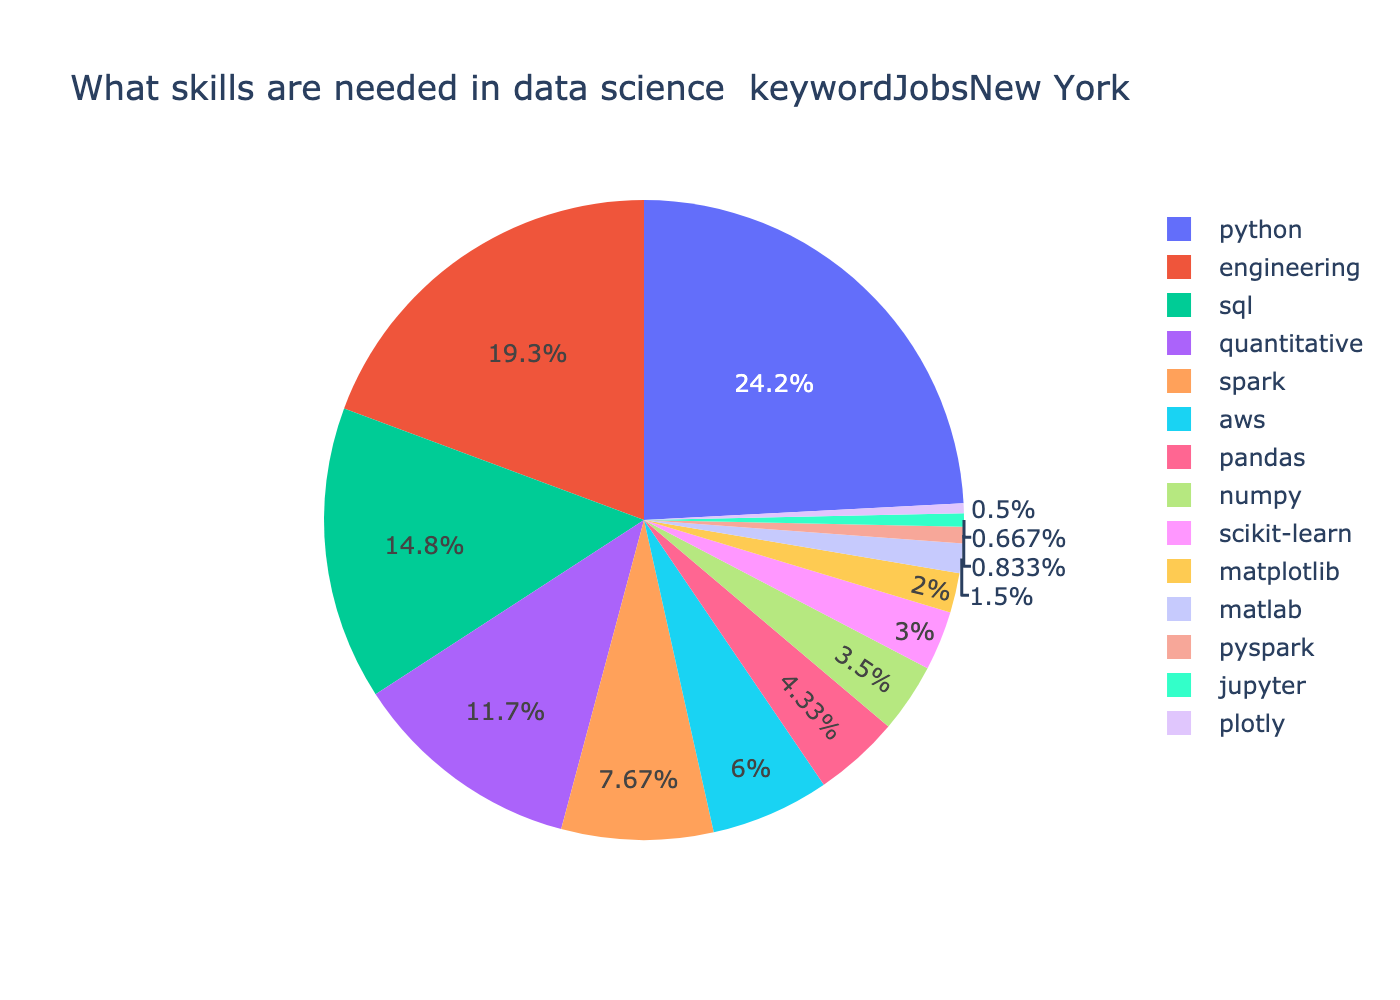
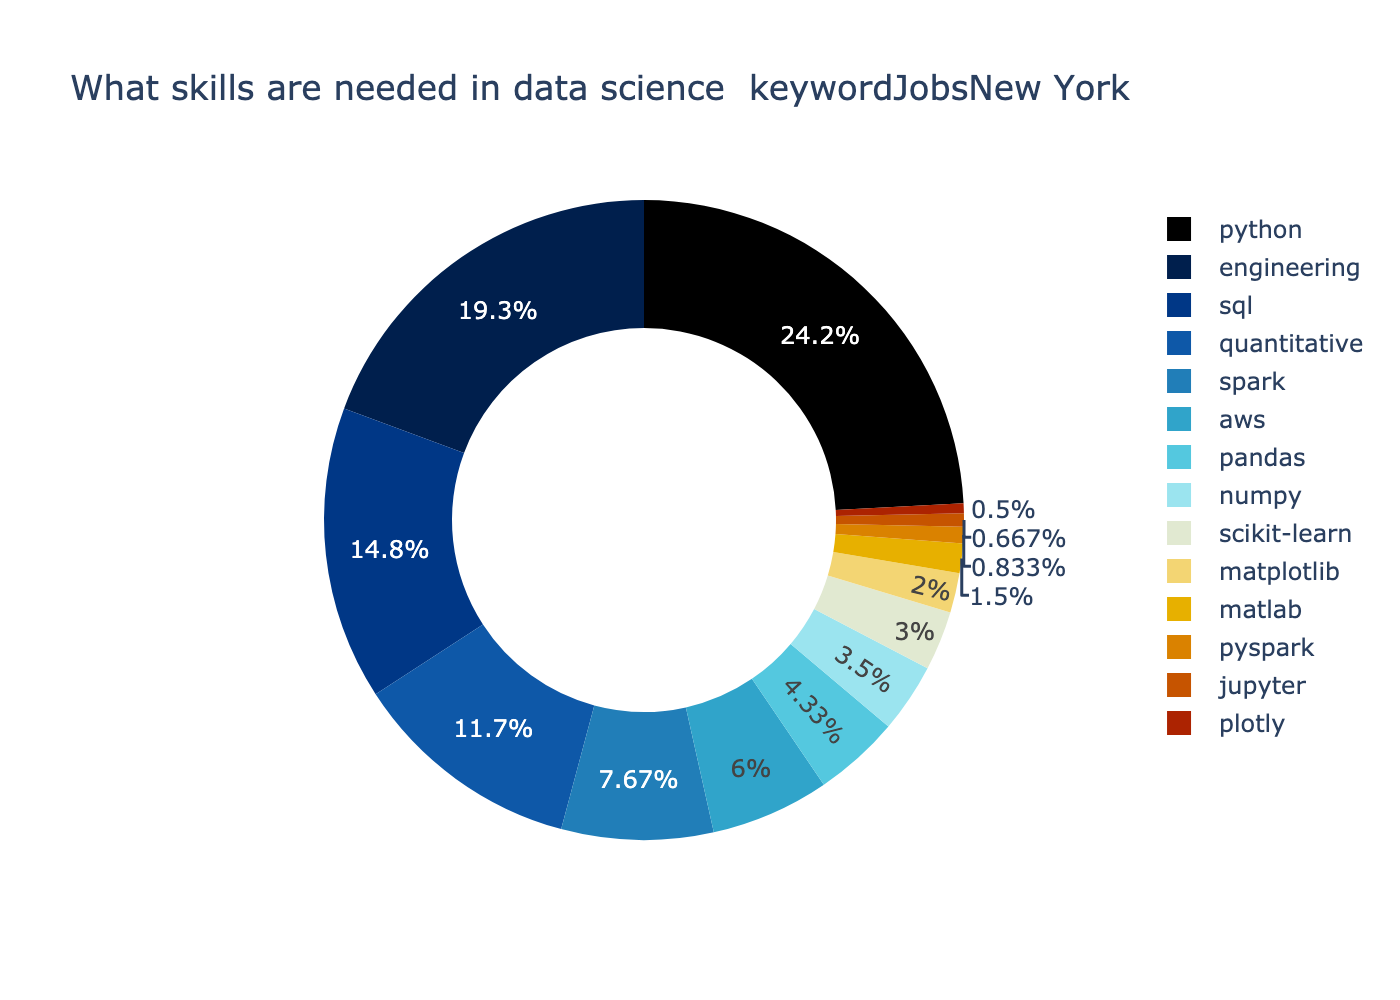
plots

Changed region(s): [[0.215, 0.186, 0.7064, 0.837], [0.8293, 0.217, 0.86, 0.744]]

diff --git a/Plotting.py b/Plotting.py
@@ -24,10 +24,10 @@ class plotter:
         size=18,
         color="black"))
         #fig_1.update_layout( xaxis={'categoryorder':'category descending'})
-        #fig_1.write_image('bar'+file_.split('.')[0]+'.png',scale=2)
+        fig_1.write_image('bar'+file_.split('.')[0]+'.png',scale=2)
         fig_1.show()
-        fig_2 = px.pie(values=y, names=x, title='What skills are needed in data science'+'  '+file_.split('.')[0],color_discrete_sequence=px.colors.cyclical.IceFire)
-        #fig_2.write_image('pie'+file_.split('.')[0]+'.png',scale=2)
+        fig_2 = px.pie(values=y, names=x, title='What skills are needed in data science'+'  '+file_.split('.')[0],color_discrete_sequence=px.colors.cyclical.IceFire,hole=0.6)
+        fig_2.write_image('pie'+file_.split('.')[0]+'.png',scale=2)
         fig_2.update_layout(font=dict(family="Times New Roman",
         size=18,
         color="black"))
